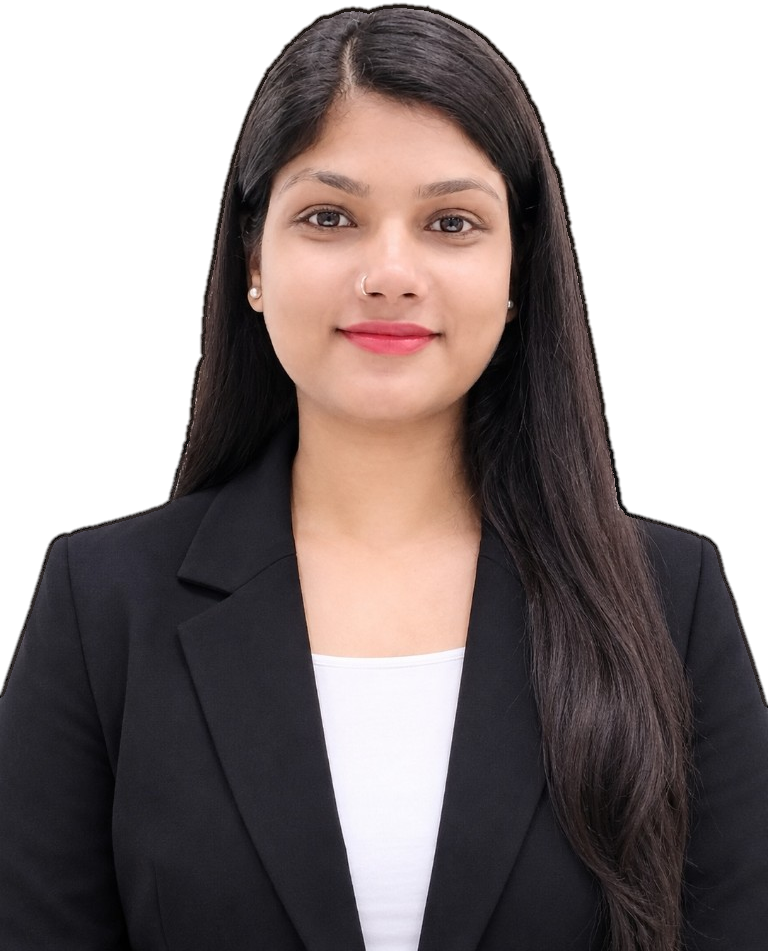
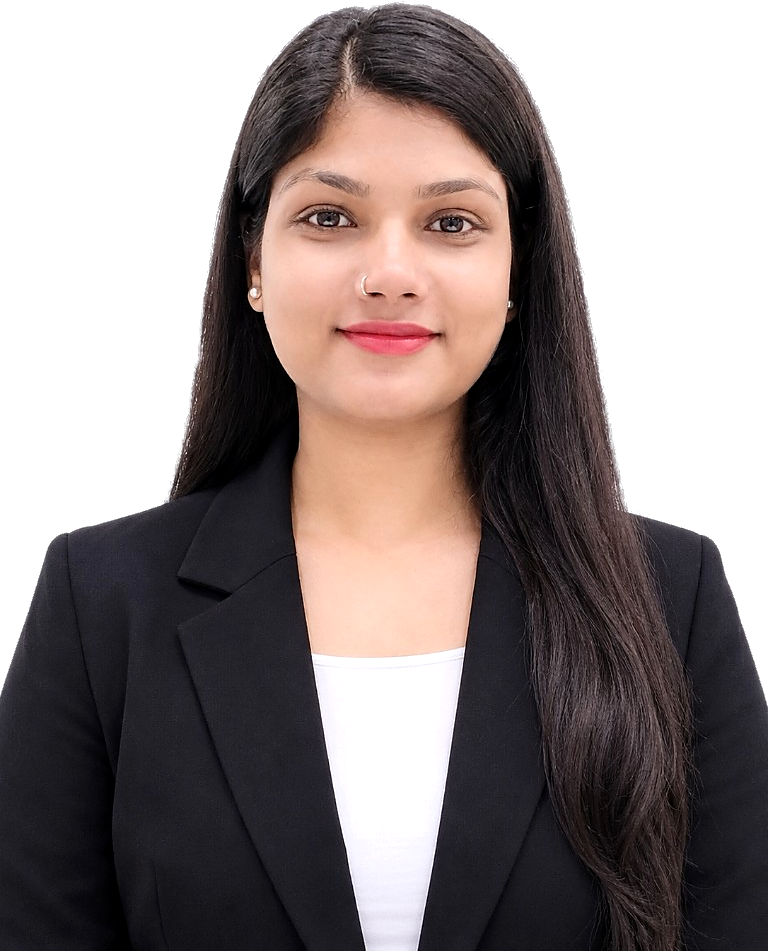
Sharpen the hero portrait and refine soft hair edges.
Rebuild the cutout from the studio photo with spill suppression, subtle clarity enhancement, and higher-quality WebP delivery.

diff --git a/frontend/src/components/home/HeroSection.tsx b/frontend/src/components/home/HeroSection.tsx
@@ -20,7 +20,7 @@ type Props = {
 };
 
 /** Transparent cutout portrait. Replaced when an owner upload exists. */
-const FALLBACK_PORTRAIT = "/images/pooja-portrait.webp?v=hair-clean-2";
+const FALLBACK_PORTRAIT = "/images/pooja-portrait.webp?v=pro-sharp-1";
 
 const BADGE_SLOTS = [
   { style: { top: "22%", left: "18%" }, depth: 18, delay: "0s" },
@@ -218,13 +218,16 @@ export default function HeroSection({
                   src={portrait}
                   alt={`Portrait of ${fullName}`}
                   width={768}
-                  height={962}
+                  height={951}
+                  sizes="(min-width: 1024px) 34rem, (min-width: 640px) 30rem, 24rem"
                   loading="eager"
+                  fetchPriority="high"
+                  decoding="async"
                   style={{ x: photoX, y: photoY }}
                   initial={{ opacity: 0, y: 40 }}
                   animate={{ opacity: 1, y: 0 }}
                   transition={{ duration: 0.9, delay: 0.3, ease: [0.22, 1, 0.36, 1] }}
-                  className={`h-full w-auto max-w-none select-none object-contain object-bottom drop-shadow-[0_12px_20px_rgba(43,27,24,0.08)] ${portraitBlend}`}
+                  className={`h-full w-auto max-w-none select-none object-contain object-bottom drop-shadow-[0_12px_20px_rgba(43,27,24,0.06)] ${portraitBlend}`}
                   draggable={false}
                 />
               </div>
